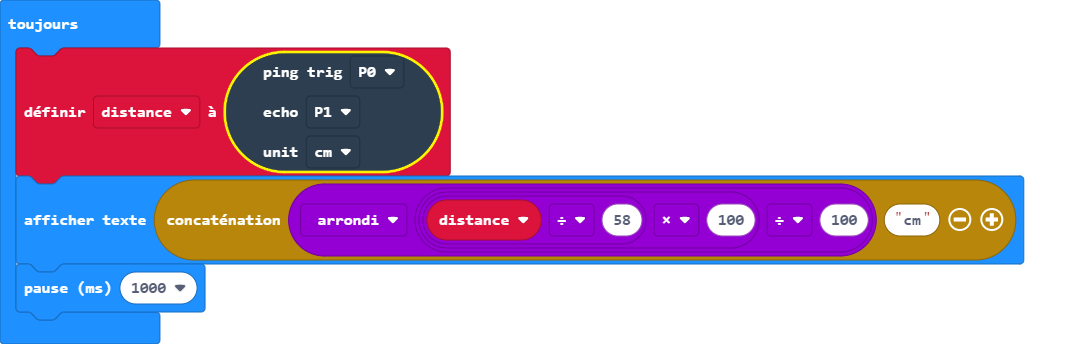
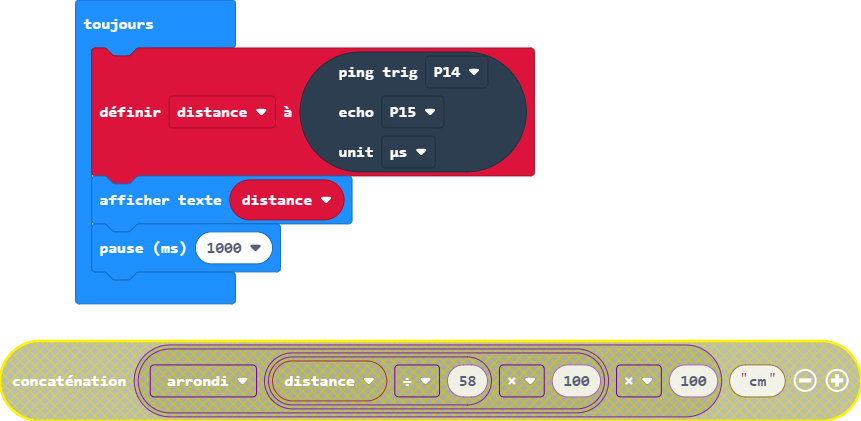
Mise à jour main.blocks, main.ts

diff --git a/main.ts b/main.ts
@@ -1,10 +1,10 @@
 let distance = 0
 basic.forever(function () {
     distance = sonar.ping(
-    DigitalPin.P0,
-    DigitalPin.P1,
-    PingUnit.Centimeters
+    DigitalPin.P14,
+    DigitalPin.P15,
+    PingUnit.MicroSeconds
     )
-    basic.showString("" + Math.round(distance / 58 * 100 / 100) + "cm")
+    basic.showString("" + (distance))
     basic.pause(1000)
 })
